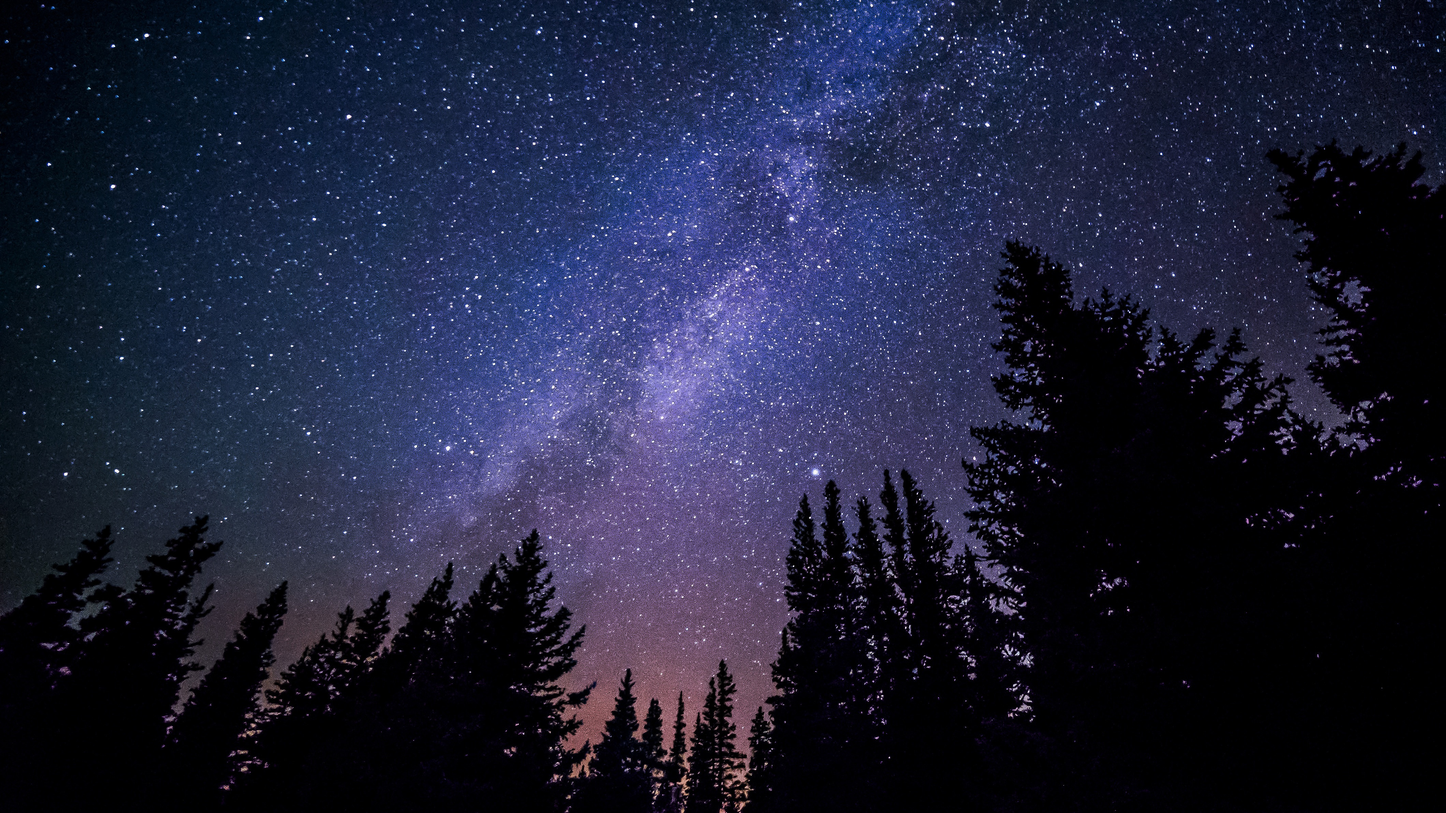
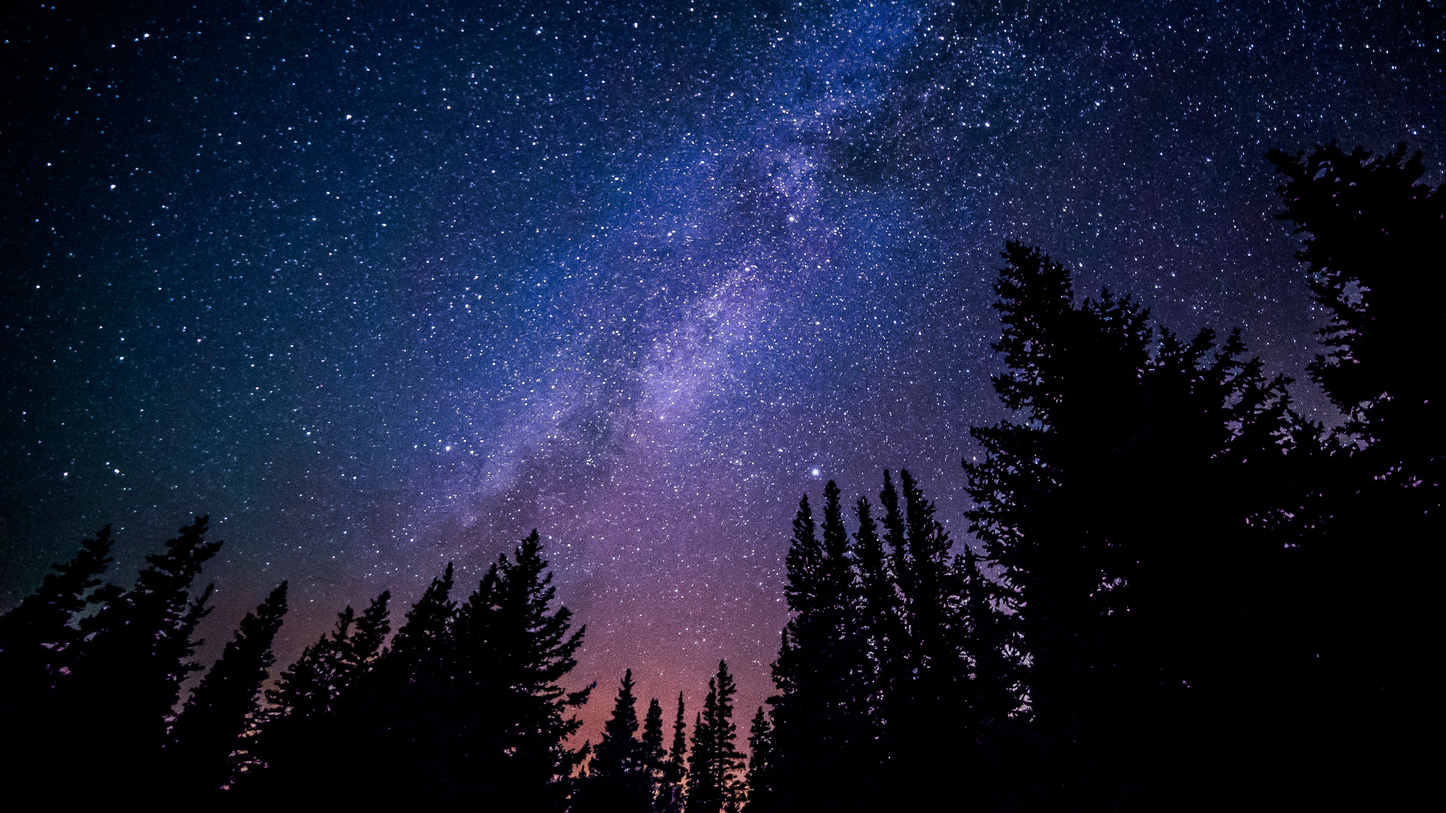
adjustments to main landing page background image

Changed region(s): [[0.3425, 0.0, 0.6538, 0.4035]]

diff --git a/landing page/front page code/assets/css/main.css b/landing page/front page code/assets/css/main.css
@@ -3090,11 +3090,12 @@
 	}
 
 	#banner {
+		height: 100%;
 		padding: 16em 0 13em 0;
 		background-attachment: fixed;
 		background-image: url("images/overlay.png"), url("../../images/stars_forest_view.jpg");
 		background-position: center top;
-		background-size: cover;
+		background-size: auto 100%;
 		line-height: 1.75;
 		text-align: center;
 	}
